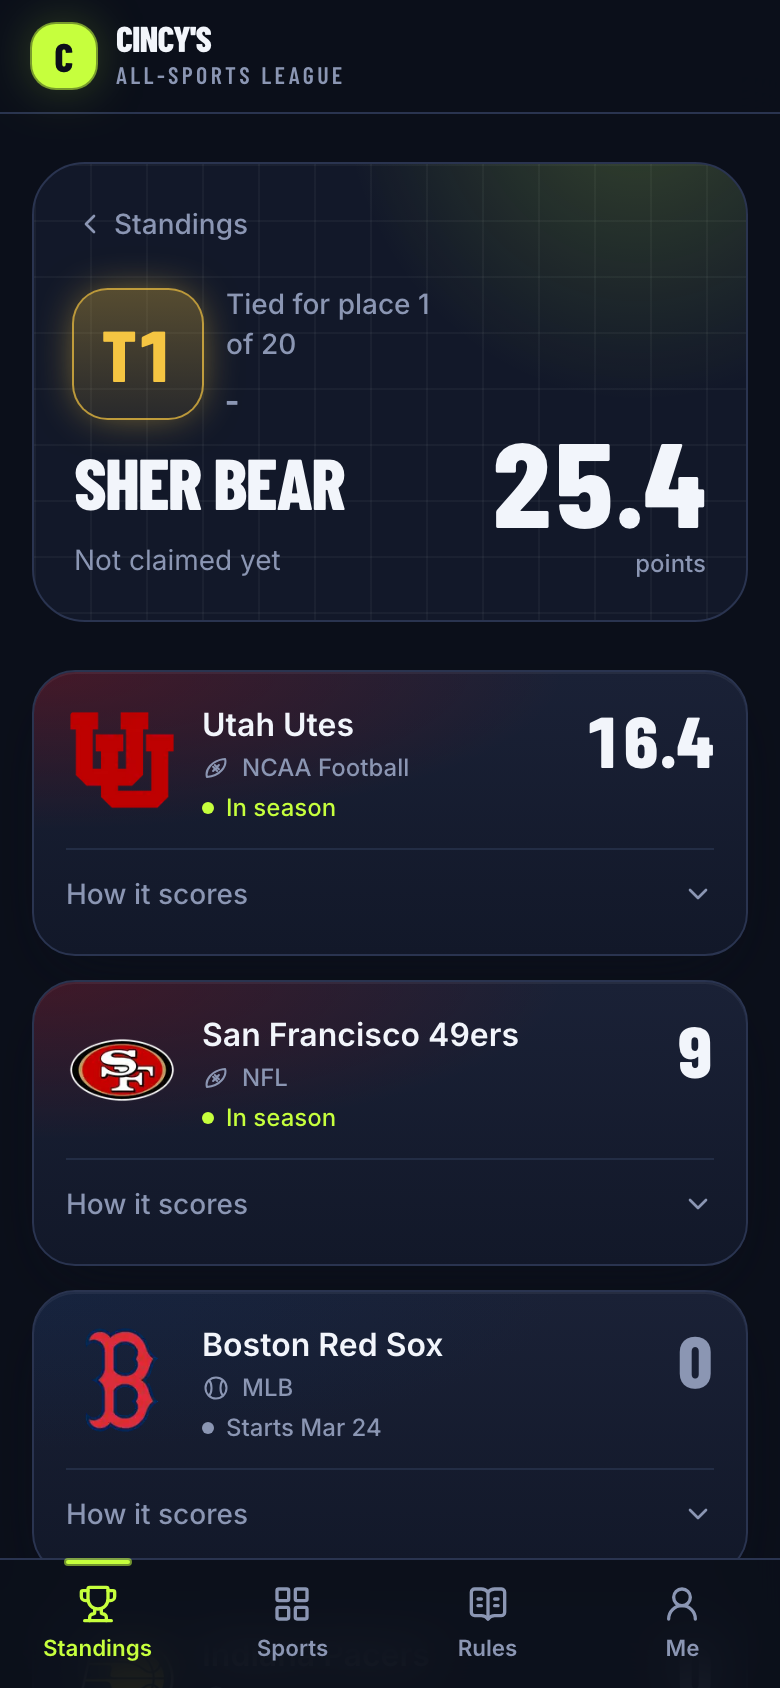
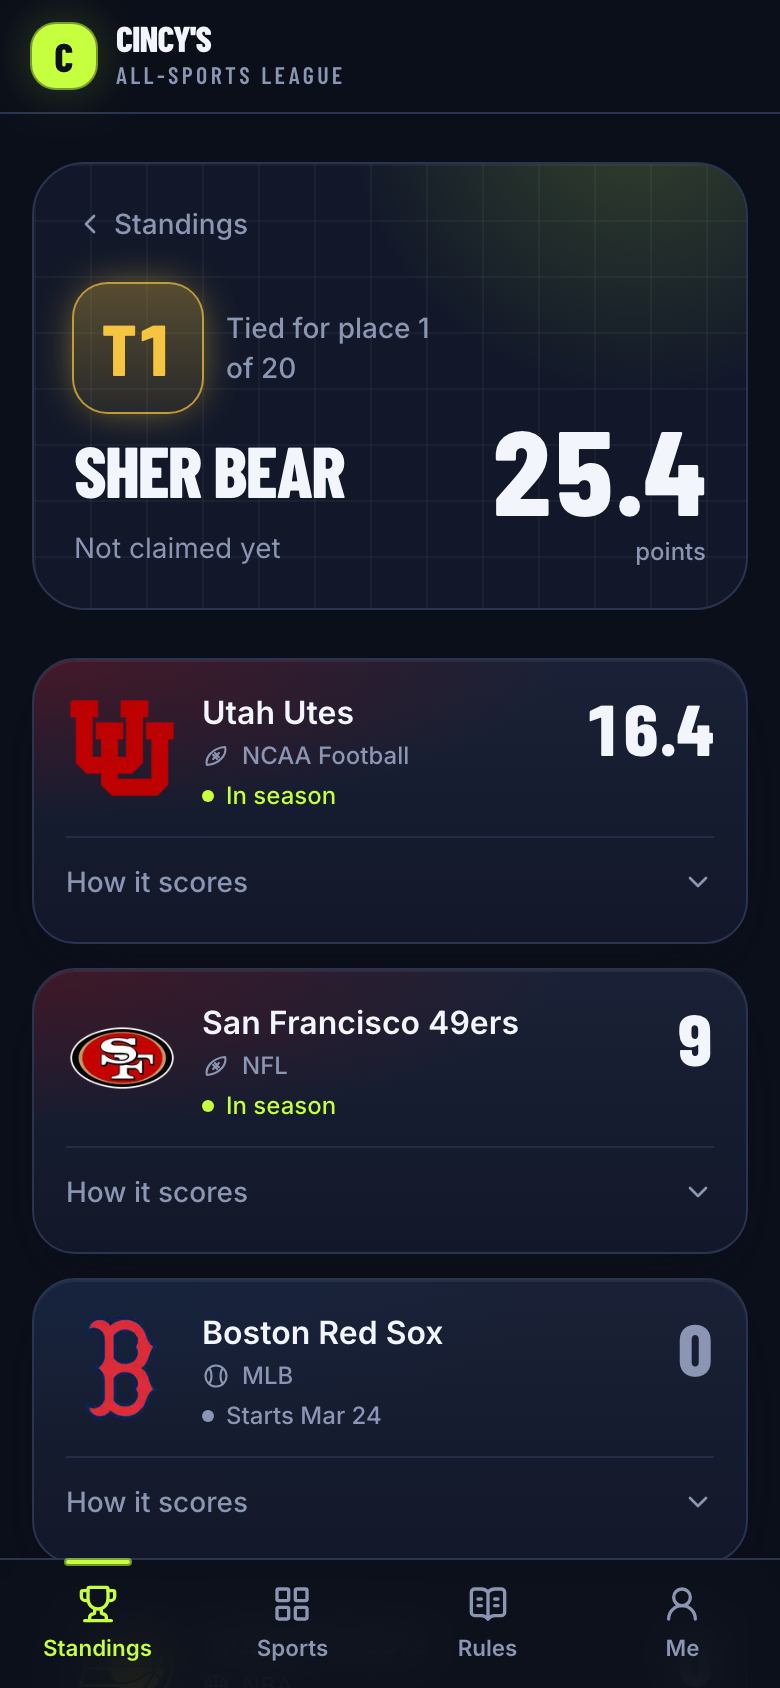
fix(ui): rename base color token, set metadataBase, tidy hero and movement
Renames the color token that shadowed Tailwind's text-base font size,
adds NEXT_PUBLIC_SITE_URL for metadataBase, keeps the hero title within
the desktop sidebar, hides the neutral movement marker, and refreshes
README screenshots without test data.

Claude-Session: https://claude.ai/code/session_01AVBEkQTvSoPoTtfijh2oQb

diff --git a/src/ui/input.tsx b/src/ui/input.tsx
@@ -7,7 +7,7 @@ function Input({ className, type, ...props }: React.ComponentProps<"input">) {
       type={type}
       data-slot="input"
       className={cn(
-        "h-8 w-full min-w-0 rounded-lg border border-input bg-transparent px-2.5 py-1 text-[1rem] text-foreground transition-colors outline-none file:inline-flex file:h-6 file:border-0 file:bg-transparent file:text-sm file:font-medium file:text-foreground placeholder:text-muted-foreground focus-visible:border-ring focus-visible:ring-3 focus-visible:ring-ring/50 disabled:pointer-events-none disabled:cursor-not-allowed disabled:bg-input/50 disabled:opacity-50 aria-invalid:border-destructive aria-invalid:ring-3 aria-invalid:ring-destructive/20 md:text-sm dark:bg-input/30 dark:disabled:bg-input/80 dark:aria-invalid:border-destructive/50 dark:aria-invalid:ring-destructive/40",
+        "h-8 w-full min-w-0 rounded-lg border border-input bg-transparent px-2.5 py-1 text-base text-foreground transition-colors outline-none file:inline-flex file:h-6 file:border-0 file:bg-transparent file:text-sm file:font-medium file:text-foreground placeholder:text-muted-foreground focus-visible:border-ring focus-visible:ring-3 focus-visible:ring-ring/50 disabled:pointer-events-none disabled:cursor-not-allowed disabled:bg-input/50 disabled:opacity-50 aria-invalid:border-destructive aria-invalid:ring-3 aria-invalid:ring-destructive/20 md:text-sm dark:bg-input/30 dark:disabled:bg-input/80 dark:aria-invalid:border-destructive/50 dark:aria-invalid:ring-destructive/40",
         className,
       )}
       {...props}

diff --git a/src/app/globals.css b/src/app/globals.css
@@ -11,7 +11,7 @@
   color-scheme: dark;
 
   /* Surfaces, darkest to lightest */
-  --base: #0b0f1a;
+  --canvas: #0b0f1a;
   --surface: #121829;
   --surface-raised: #1a2136;
   --surface-high: #232c45;
@@ -35,7 +35,7 @@
   --radius: 0.75rem;
 
   /* shadcn/ui semantic variables, mapped onto the tokens above */
-  --background: var(--base);
+  --background: var(--canvas);
   --foreground: var(--text);
   --card: var(--surface);
   --card-foreground: var(--text);
@@ -62,7 +62,7 @@
   --font-display: var(--font-display);
   --font-heading: var(--font-display);
 
-  --color-base: var(--base);
+  --color-canvas: var(--canvas);
   --color-surface: var(--surface);
   --color-surface-raised: var(--surface-raised);
   --color-surface-high: var(--surface-high);
@@ -111,7 +111,7 @@
     0 0 20px -4px color-mix(in oklab, var(--bronze) 55%, transparent);
   --shadow-lift:
     0 1px 0 0 color-mix(in oklab, var(--text) 6%, transparent) inset,
-    0 12px 32px -16px color-mix(in oklab, var(--base) 90%, transparent);
+    0 12px 32px -16px color-mix(in oklab, var(--canvas) 90%, transparent);
 
   --animate-rise: rise 520ms cubic-bezier(0.2, 0.7, 0.2, 1) both;
   --animate-live: live 2s ease-in-out infinite;

diff --git a/src/ui/movement-indicator.tsx b/src/ui/movement-indicator.tsx
@@ -1,7 +1,7 @@
 import type { RankMovement } from "@/domain/standings";
 import { cn } from "cn";
 
-/** Rank change since the last daily snapshot. Renders nothing when there is no history yet. */
+/** Rank change since the last daily snapshot. Renders nothing when there is no history yet or the rank held; a lone dash read as noise. */
 export function MovementIndicator({
   movement,
   className,
@@ -9,17 +9,9 @@ export function MovementIndicator({
   movement: RankMovement;
   className?: string;
 }) {
-  if (movement.direction === "new") return null;
+  if (movement.direction === "new" || movement.direction === "same") return null;
   const base =
     "font-display inline-flex items-center gap-0.5 text-sm leading-none font-bold tabular";
-  if (movement.direction === "same") {
-    return (
-      <span className={cn(base, "text-text-muted", className)}>
-        <span aria-hidden="true">–</span>
-        <span className="sr-only">No change</span>
-      </span>
-    );
-  }
   const up = movement.direction === "up";
   return (
     <span className={cn(base, up ? "text-brand" : "text-heat", className)}>

diff --git a/src/app/layout.tsx b/src/app/layout.tsx
@@ -1,5 +1,6 @@
 import type { Metadata, Viewport } from "next";
 import { Barlow_Condensed, Inter } from "next/font/google";
+import { publicEnv } from "@/lib/env";
 import { AppShell } from "@/ui/app-shell";
 import "./globals.css";
 
@@ -13,6 +14,7 @@ const display = Barlow_Condensed({
 });
 
 export const metadata: Metadata = {
+  metadataBase: new URL(publicEnv().NEXT_PUBLIC_SITE_URL),
   title: { default: "Cincy's All-Sports League", template: "%s | Cincy's All-Sports League" },
   applicationName: "Cincy's All-Sports League",
   appleWebApp: { capable: true, title: "Cincy's League", statusBarStyle: "black-translucent" },
@@ -23,7 +25,7 @@ export const metadata: Metadata = {
 export const viewport: Viewport = {
   width: "device-width",
   initialScale: 1,
-  // Browser chrome can't read CSS variables, so this mirrors --base in globals.css.
+  // Browser chrome can't read CSS variables, so this mirrors --canvas in globals.css.
   themeColor: "#0b0f1a",
   colorScheme: "dark",
   // Lets the header and tab bar extend under the notch and home indicator.

diff --git a/src/ui/app-shell.tsx b/src/ui/app-shell.tsx
@@ -12,7 +12,7 @@ export function AppShell({ children }: { children: ReactNode }) {
       >
         Skip to content
       </a>
-      <header className="sticky top-0 z-40 border-b border-line bg-base/85 pt-[env(safe-area-inset-top)] backdrop-blur-md">
+      <header className="sticky top-0 z-40 border-b border-line bg-canvas/85 pt-[env(safe-area-inset-top)] backdrop-blur-md">
         <div className="mx-auto flex h-14 w-full max-w-5xl items-center justify-between px-4">
           <Wordmark />
           <nav aria-label="Main" className="hidden md:block">
@@ -27,7 +27,7 @@ export function AppShell({ children }: { children: ReactNode }) {
 
       <nav
         aria-label="Main"
-        className="fixed inset-x-0 bottom-0 z-40 border-t border-line bg-base/90 pb-[env(safe-area-inset-bottom)] backdrop-blur-md md:hidden"
+        className="fixed inset-x-0 bottom-0 z-40 border-t border-line bg-canvas/90 pb-[env(safe-area-inset-bottom)] backdrop-blur-md md:hidden"
       >
         <NavLinks variant="bar" />
       </nav>

diff --git a/src/features/standings/components/leaderboard-hero.tsx b/src/features/standings/components/leaderboard-hero.tsx
@@ -26,7 +26,7 @@ export function LeaderboardHero({
         className,
       )}
     >
-      <p className="inline-flex items-center gap-2 rounded-full border border-line bg-base/60 py-1 pr-3 pl-2.5 text-xs font-medium text-text-muted">
+      <p className="inline-flex items-center gap-2 rounded-full border border-line bg-canvas/60 py-1 pr-3 pl-2.5 text-xs font-medium text-text-muted">
         <span
           aria-hidden="true"
           className={cn(
@@ -39,7 +39,7 @@ export function LeaderboardHero({
           : "Waiting for the first score update"}
       </p>
 
-      <h1 className="mt-4 text-[2.5rem] leading-[0.92] font-extrabold md:text-6xl">
+      <h1 className="mt-4 text-[2.5rem] leading-[0.92] font-extrabold md:text-6xl lg:text-[2.25rem]">
         Cincy&apos;s <span className="block whitespace-nowrap">All-Sports League</span>
       </h1>
       <p className="mt-2 text-sm text-text-muted">{board.seasonName} season, 20 teams, 11 sports</p>

diff --git a/src/ui/dialog.tsx b/src/ui/dialog.tsx
@@ -31,7 +31,7 @@ function DialogOverlay({
     <DialogPrimitive.Overlay
       data-slot="dialog-overlay"
       className={cn(
-        "fixed inset-0 isolate z-50 bg-base/70 duration-100 supports-backdrop-filter:backdrop-blur-xs data-open:animate-in data-open:fade-in-0 data-closed:animate-out data-closed:fade-out-0",
+        "fixed inset-0 isolate z-50 bg-canvas/70 duration-100 supports-backdrop-filter:backdrop-blur-xs data-open:animate-in data-open:fade-in-0 data-closed:animate-out data-closed:fade-out-0",
         className,
       )}
       {...props}
@@ -109,7 +109,7 @@ function DialogTitle({ className, ...props }: React.ComponentProps<typeof Dialog
   return (
     <DialogPrimitive.Title
       data-slot="dialog-title"
-      className={cn("font-heading text-[1rem] leading-none font-medium", className)}
+      className={cn("font-heading text-base leading-none font-medium", className)}
       {...props}
     />
   );

diff --git a/src/ui/native-select.tsx b/src/ui/native-select.tsx
@@ -7,7 +7,7 @@ function NativeSelect({ className, ...props }: React.ComponentProps<"select">) {
     <select
       data-slot="native-select"
       className={cn(
-        "h-10 w-full min-w-0 rounded-lg border border-input bg-surface px-2.5 text-[1rem] text-text outline-none focus-visible:border-ring focus-visible:ring-3 focus-visible:ring-ring/50 disabled:cursor-not-allowed disabled:opacity-50 aria-invalid:border-destructive md:text-sm",
+        "h-10 w-full min-w-0 rounded-lg border border-input bg-surface px-2.5 text-base text-text outline-none focus-visible:border-ring focus-visible:ring-3 focus-visible:ring-ring/50 disabled:cursor-not-allowed disabled:opacity-50 aria-invalid:border-destructive md:text-sm",
         className,
       )}
       {...props}

diff --git a/src/lib/env.ts b/src/lib/env.ts
@@ -8,6 +8,8 @@ import { z } from "zod";
 const publicSchema = z.object({
   NEXT_PUBLIC_SUPABASE_URL: z.url(),
   NEXT_PUBLIC_SUPABASE_PUBLISHABLE_KEY: z.string().min(1),
+  // Canonical origin for absolute URLs (metadataBase). Set it in production; local dev falls back.
+  NEXT_PUBLIC_SITE_URL: z.url().default("http://localhost:3000"),
 });
 
 export type PublicEnv = z.infer<typeof publicSchema>;
@@ -28,6 +30,7 @@ export function publicEnv(): PublicEnv {
   cached ??= parsePublicEnv({
     NEXT_PUBLIC_SUPABASE_URL: process.env.NEXT_PUBLIC_SUPABASE_URL,
     NEXT_PUBLIC_SUPABASE_PUBLISHABLE_KEY: process.env.NEXT_PUBLIC_SUPABASE_PUBLISHABLE_KEY,
+    NEXT_PUBLIC_SITE_URL: process.env.NEXT_PUBLIC_SITE_URL || undefined,
   });
   return cached;
 }

diff --git a/src/lib/env.test.ts b/src/lib/env.test.ts
@@ -8,7 +8,14 @@ const valid = {
 
 describe("parsePublicEnv", () => {
   it("accepts a complete environment", () => {
-    expect(parsePublicEnv(valid)).toEqual(valid);
+    expect(parsePublicEnv({ ...valid, NEXT_PUBLIC_SITE_URL: "https://example.com" })).toEqual({
+      ...valid,
+      NEXT_PUBLIC_SITE_URL: "https://example.com",
+    });
+  });
+
+  it("falls back to localhost when the site URL is unset", () => {
+    expect(parsePublicEnv(valid).NEXT_PUBLIC_SITE_URL).toBe("http://localhost:3000");
   });
 
   it("names the bad variables without echoing their values", () => {

diff --git a/src/features/fantasy-teams/components/team-header.tsx b/src/features/fantasy-teams/components/team-header.tsx
@@ -25,7 +25,7 @@ export function TeamHeader({ team, isMine }: { team: TeamDetail; isMine: boolean
               <span className="text-sm font-medium text-text-muted">
                 {team.isTied ? "Tied for " : ""}place {team.rank} of {team.teamCount}
               </span>
-              <MovementIndicator movement={team.movement} className="text-[1rem]" />
+              <MovementIndicator movement={team.movement} className="text-base" />
             </div>
           </div>
           <h1 className="text-4xl leading-[0.95] font-extrabold break-words md:text-6xl">

diff --git a/src/features/fantasy-teams/components/pick-card.tsx b/src/features/fantasy-teams/components/pick-card.tsx
@@ -27,7 +27,7 @@ export function PickCard({ pick, index }: { pick: PickView; index: number }) {
           size="md"
         />
         <div className="flex min-w-0 flex-1 flex-col gap-1">
-          <h3 className="font-sans text-[1rem] leading-tight font-semibold tracking-normal normal-case">
+          <h3 className="font-sans text-base leading-tight font-semibold tracking-normal normal-case">
             {pick.participantName}
           </h3>
           <p className="flex items-center gap-1.5 text-xs font-medium text-text-muted">
